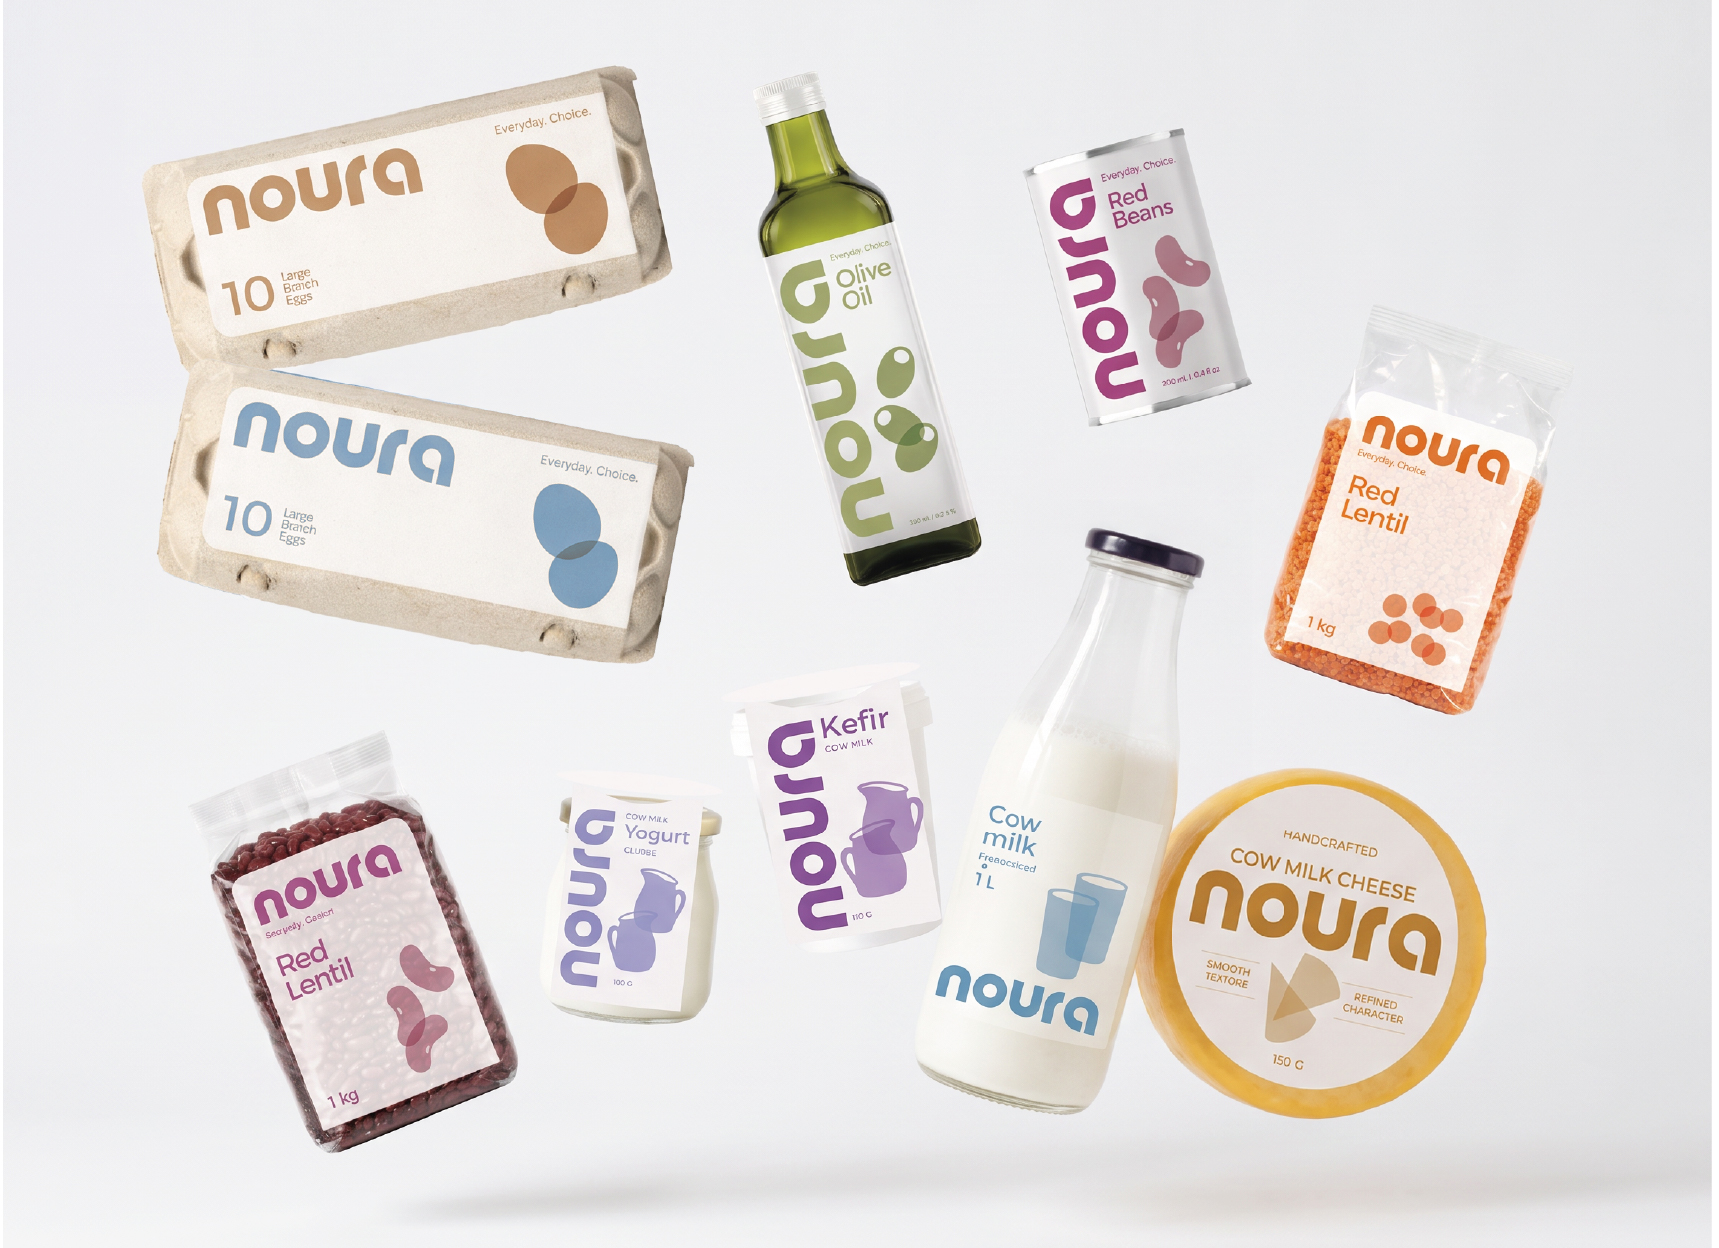
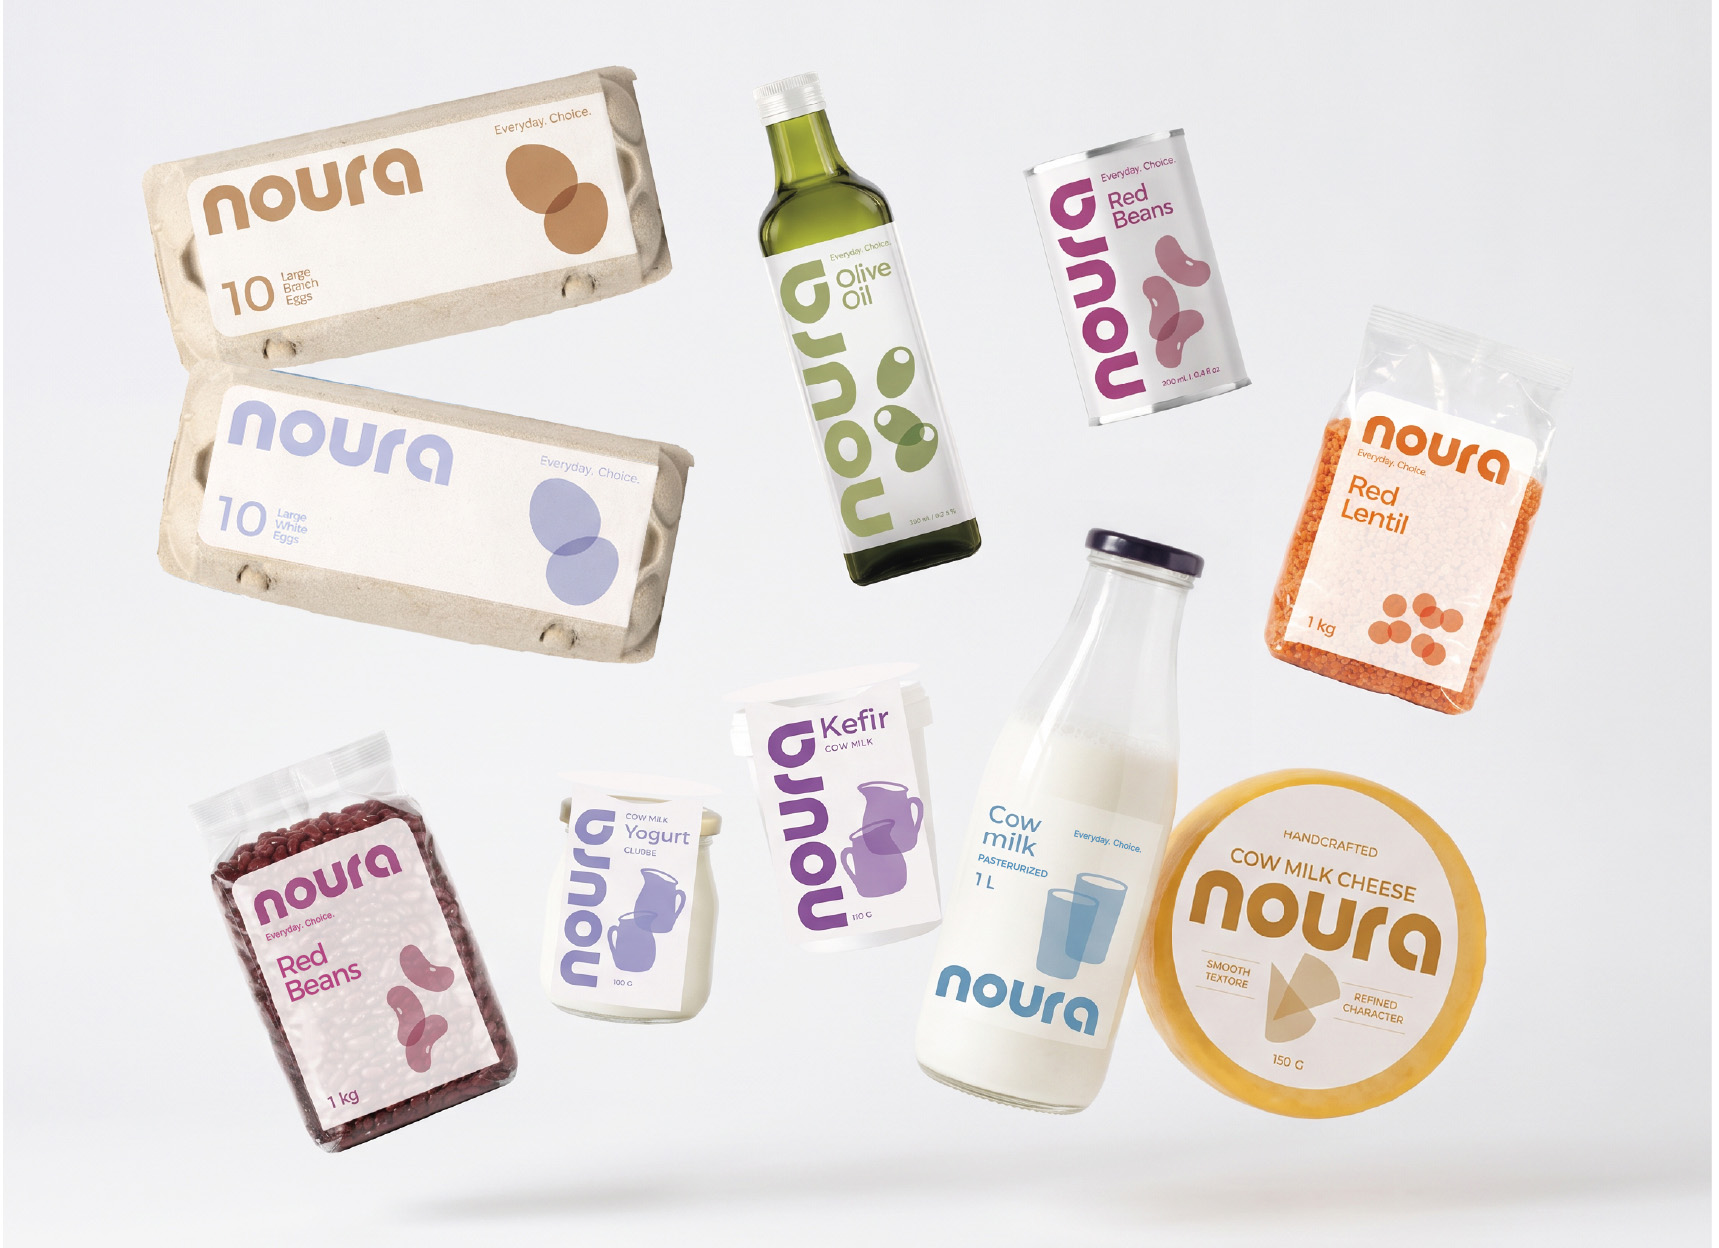
Update Noura images and add new ones from folder

diff --git a/work/noura.html b/work/noura.html
@@ -59,6 +59,8 @@
       <div class="fig fig--full reveal"><img src="../images/work/noura/04.jpg" alt="Noura dairy and grocery brand identity and packaging" loading="lazy"></div>
       <div class="fig fig--full reveal"><img src="../images/work/noura/05.jpg" alt="Noura dairy and grocery brand identity and packaging" loading="lazy"></div>
       <div class="fig fig--full reveal"><img src="../images/work/noura/06.jpg" alt="Noura dairy and grocery brand identity and packaging" loading="lazy"></div>
+      <div class="fig fig--full reveal"><img src="../images/work/noura/07.jpg" alt="Noura dairy and grocery brand identity and packaging" loading="lazy"></div>
+      <div class="fig fig--full reveal"><img src="../images/work/noura/09.jpg" alt="Noura dairy and grocery brand identity and packaging" loading="lazy"></div>
     </div>
   </section>
 
